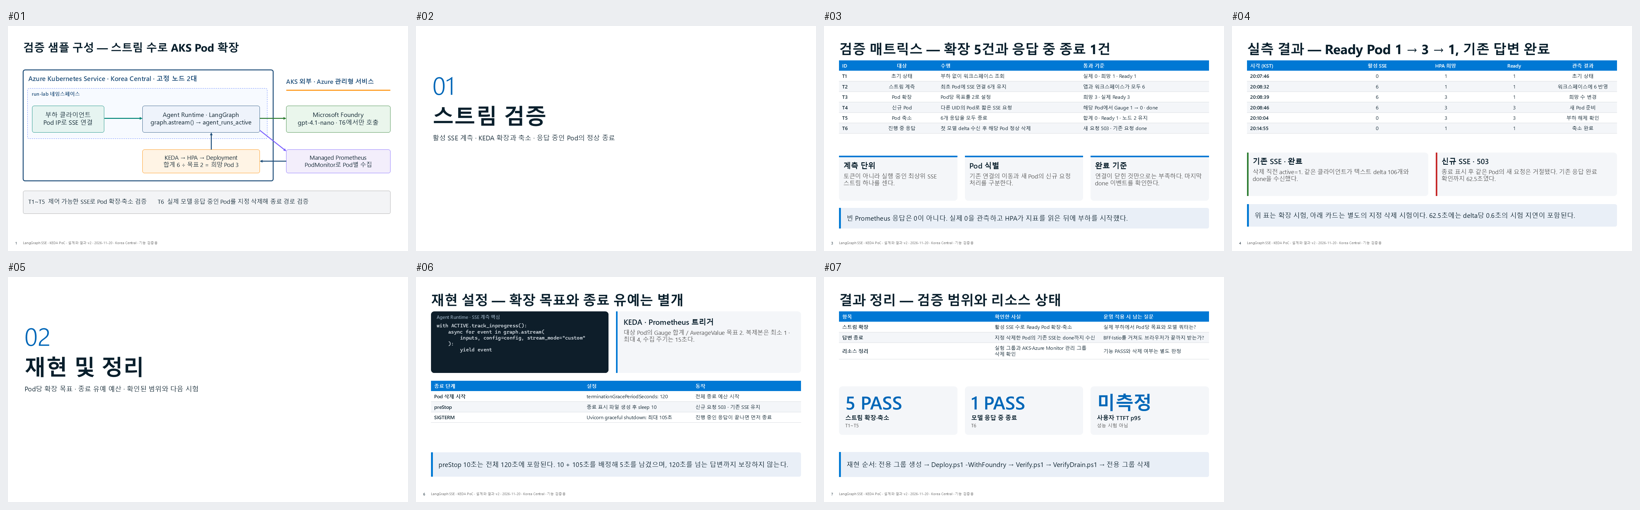
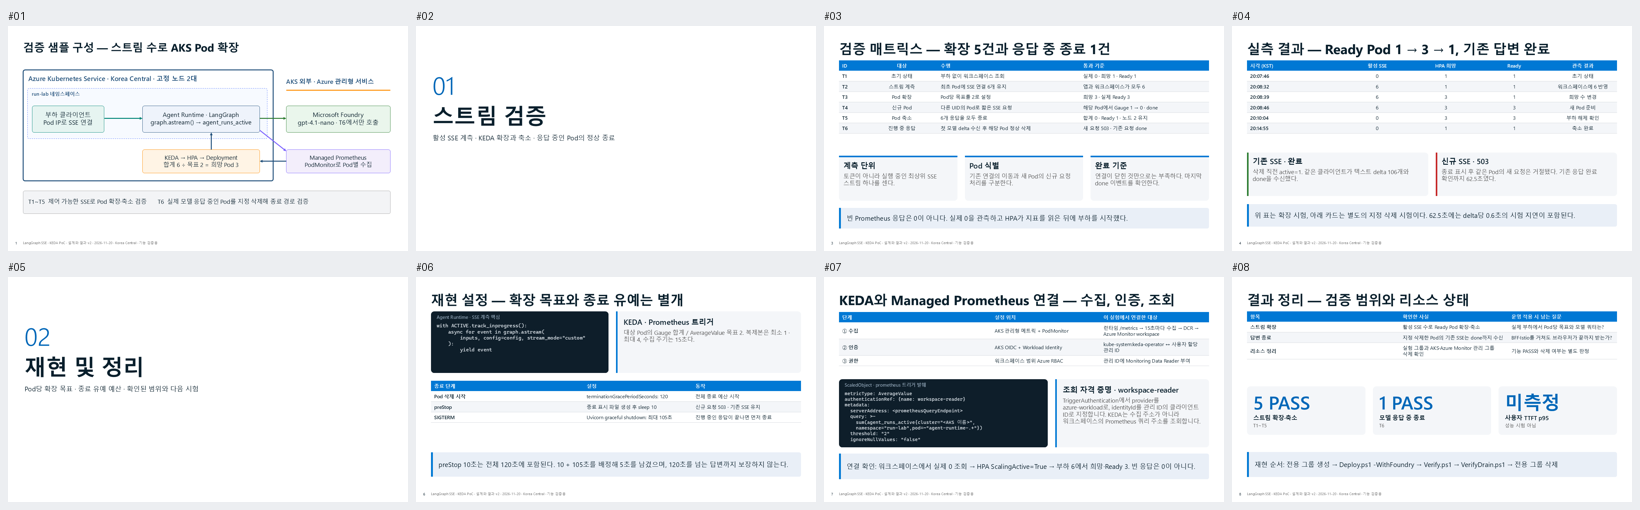
docs: show how KEDA queries Azure Managed Prometheus
Copilot-Session: 70f729d5-f1d0-43c0-8ae0-fc7e63bc5b27

diff --git a/deck/langgraph-keda-v2.script.md b/deck/langgraph-keda-v2.script.md
@@ -1,6 +1,6 @@
 # 발표 스크립트 — LangGraph SSE · KEDA 검증 — 설계와 결과
 
-7장 · L300 · 예상 4분 44초
+8장 · L300 · 예상 6분 28초
 
 ## 1. 검증 샘플 구성 — 스트림 수로 AKS Pod 확장
 _48초 · 261자_
@@ -40,7 +40,16 @@ _51초 · 269자_
 
 > 출처: app/main.py; app/Dockerfile; k8s/workload.yaml; k8s/monitor.yaml; k8s/scaler.yaml
 
-## 7. 결과 정리 — 검증 범위와 리소스 상태
+## 7. KEDA와 Managed Prometheus 연결 — 수집, 인증, 조회
+_1분 44초 · 664자_
+
+앞에서 본 Gauge가 있어도 KEDA가 그 값을 자동으로 발견하지는 않습니다. 수집과 조회를 따로 연결해야 하거든요. 먼저 AKS에서 관리형 메트릭을 켜고 데이터 수집 규칙인 DCR의 목적지를 Azure Monitor workspace로 지정합니다. PodMonitor는 run-lab에서 app 라벨이 agent-runtime인 Pod의 http 포트를 찾아 /metrics를 십오 초마다 읽도록 설정합니다. 여기까지는 값을 저장하는 쪽입니다.
+그럼 누가 그 값을 읽을까요? 앱 Pod가 아니라 KEDA 오퍼레이터입니다. AKS의 KEDA 추가 기능과 OIDC 발급자, Workload Identity를 켭니다. 사용자 할당 관리 ID에 클러스터 발급자와 kube-system의 keda-operator 서비스 계정을 신뢰하는 페더레이션 자격 증명을 만들고, 워크스페이스 범위에서 Monitoring Data Reader 역할을 줍니다. 이 실험의 배포 스크립트는 서비스 계정에 해당 클라이언트 ID를 주석으로 붙이고 오퍼레이터를 재시작합니다.
+이제 왼쪽 설정을 보세요. 꺾쇠 부분은 배포 시 실제 값으로 치환합니다. ScaledObject가 같은 네임스페이스의 workspace-reader를 참조하면 KEDA가 그 ID로 쿼리 주소에 접근합니다. 이때 다른 클러스터나 앱이 섞이지 않도록 라벨로 거른 뒤 합산합니다. 합계가 여섯이고 목표가 Pod당 둘이면 희망 복제본은 셋이죠. 빈 시계열은 유휴 상태의 영이 아닙니다. 데이터가 없다면 수집 경로를, 조회가 거절되면 오퍼레이터의 자격 증명과 역할을 먼저 확인하세요. 마지막으로 이번 검증 범위와 리소스 상태를 정리하겠습니다.
+
+> 출처: infra/main.bicep; k8s/monitor.yaml; k8s/scaler.yaml; scripts/Deploy.ps1; scripts/Common.ps1; https://learn.microsoft.com/azure/azure-monitor/containers/integrate-keda
+
+## 8. 결과 정리 — 검증 범위와 리소스 상태
 _51초 · 265자_
 
 결론은 두 문장으로 나눌 수 있습니다. 계측할 수 있는 실제 SSE 응답 수로 런타임의 복제본을 조절할 수 있었습니다. 또 정상 종료 경로에서 새 연결을 거절하면서 기존 모델 응답을 마칠 수 있었습니다. 그러나 임의의 장애에서 스트림이 반드시 보호된다는 뜻은 아닙니다. 클라이언트가 실제로 거치는 프록시와 게이트웨이는 이 실험에서 제외했고, 유예 시간을 넘기는 답변의 재개도 확인하지 않았습니다. 실험이 끝난 뒤 전용 그룹뿐 아니라 두 개의 관리 그룹도 삭제된 것을 확인했습니다. 다시 실행할 때도 마지막에 이 확인을 별도로 해 주세요. 운영 전 다음 시험은 사용자가 실제로 받는 첫 토큰 지연과 중간 프록시를 포함한 연결 종료입니다.
